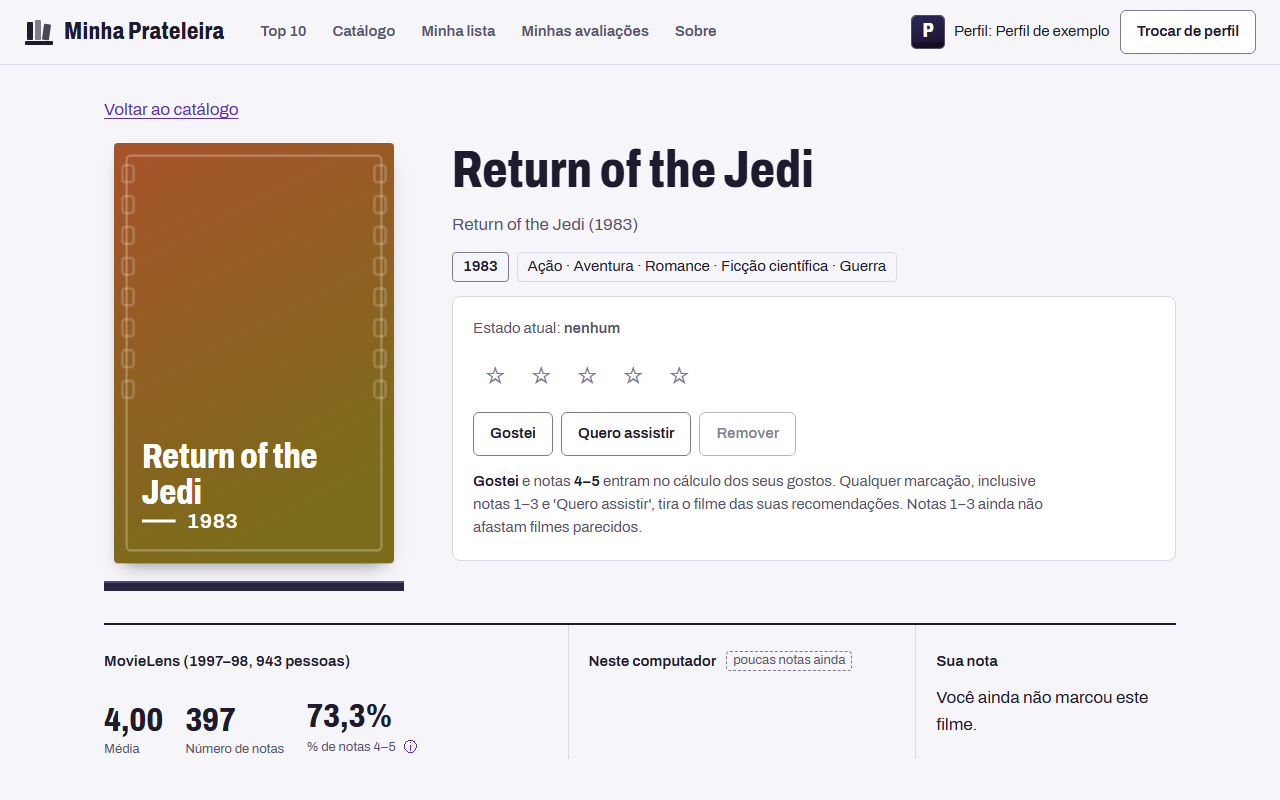
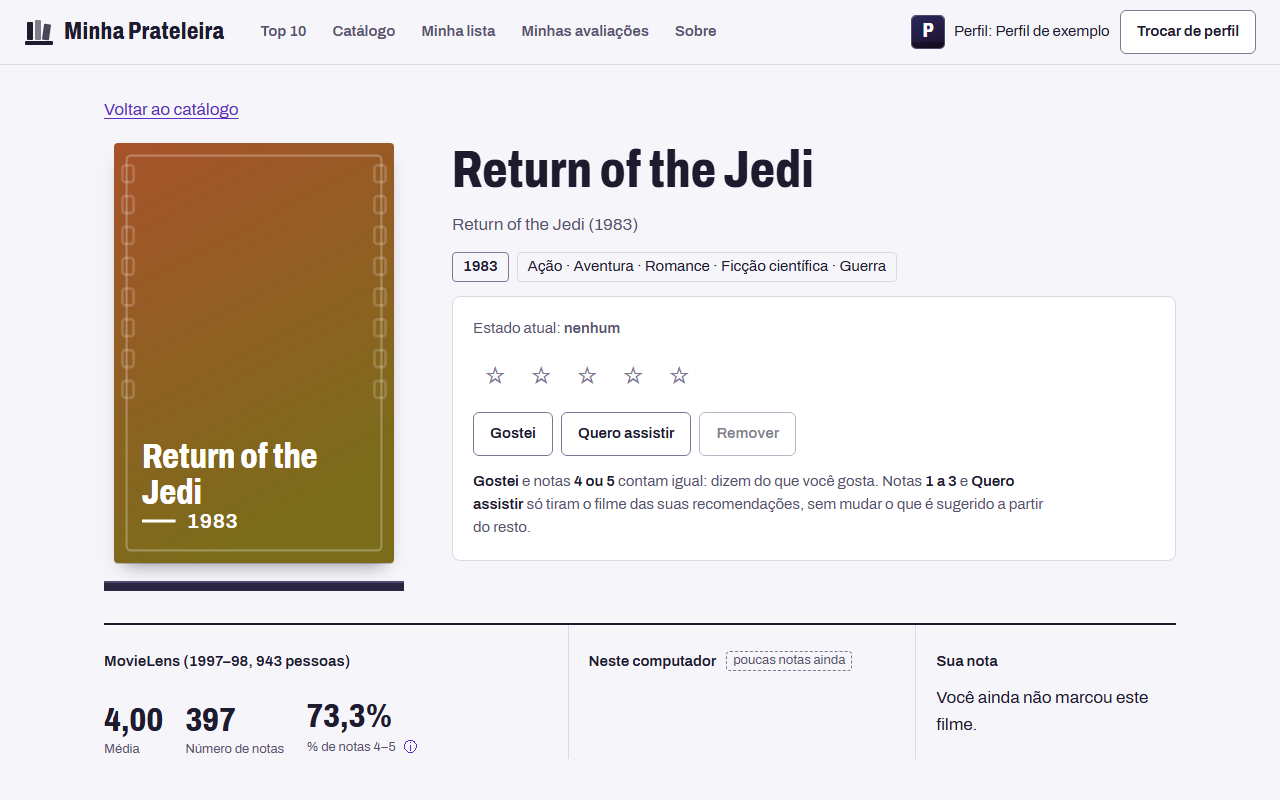
fix(web): texto do detalhe explica que Gostei e notas 4 ou 5 contam igual
Texto aprovado pelo usuário em 2026-11-20. Captura 04 regerada.

Changed region(s): [[0.375, 0.5938, 0.8125, 0.6875]]

diff --git a/app/web/src/componentes/ControleInteracao.jsx b/app/web/src/componentes/ControleInteracao.jsx
@@ -174,8 +174,8 @@ export default function ControleInteracao({ perfilId, filme, estado, aoMudar }) 
         <button type="button" disabled={!estado} onClick={() => aplicar(null)}>Remover</button>
       </div>
       <p className="texto-fixo">
-        <strong>Gostei</strong> e notas <strong>4–5</strong> entram no cálculo dos seus gostos. Qualquer marcação,
-        inclusive notas 1–3 e &apos;Quero assistir&apos;, tira o filme das suas recomendações. Notas 1–3 ainda não afastam filmes parecidos.
+        <strong>Gostei</strong> e notas <strong>4 ou 5</strong> contam igual: dizem do que você gosta. Notas <strong>1 a 3</strong> e{' '}
+        <strong>Quero assistir</strong> só tiram o filme das suas recomendações, sem mudar o que é sugerido a partir do resto.
       </p>
     </div>
   );

diff --git a/app/web/src/componentes/ControleInteracao.test.jsx b/app/web/src/componentes/ControleInteracao.test.jsx
@@ -53,7 +53,7 @@ describe('ControleInteracao', () => {
   test('texto fixo literal', () => {
     montar();
     expect(document.body.textContent).toContain(
-      "Gostei e notas 4–5 entram no cálculo dos seus gostos. Qualquer marcação, inclusive notas 1–3 e 'Quero assistir', tira o filme das suas recomendações. Notas 1–3 ainda não afastam filmes parecidos.",
+      'Gostei e notas 4 ou 5 contam igual: dizem do que você gosta. Notas 1 a 3 e Quero assistir só tiram o filme das suas recomendações, sem mudar o que é sugerido a partir do resto.',
     );
   });
 

diff --git a/docs/superpowers/specs/2026-11-16-aplicacao-etapa1-design.md b/docs/superpowers/specs/2026-11-16-aplicacao-etapa1-design.md
@@ -415,7 +415,7 @@ Recomendacoes = { perfilId, geradoEm,
 | `TelaPerfis` | "Quem está usando?", com o aviso fixo "Os perfis ficam só neste computador e não têm senha." Campo **"Apelido"**. Botão **"Ver um exemplo"** (`POST /perfis/exemplo`). Renomear e excluir com confirmação ("Apagar remove as avaliações deste perfil"). |
 | `Onboarding` | Começa com "Marque filmes que você já viu e gostou. Cada um já muda as suas recomendações; sugerimos pelo menos 3, para que a lista não dependa de um filme só. O catálogo vai até 1998." Grade curada com o `ControleRapido` (abaixo), busca e filtro de gênero, e "Não reconheço nenhum: mostrar outros", que avança o cursor. O botão principal "Ver minhas recomendações" fica em destaque a partir de 3 filmes curtidos com vetor (`curtidosComVetor`). Com menos, aparece "N marcados · sugerimos pelo menos 3", e o botão continua disponível. Com 0, ele diz "Pular por enquanto". O 3 é só uma orientação: nenhum limiar de qualidade foi medido. |
 | `ControleRapido` (cartão) | Um botão "Gostei" (`aria-pressed`) e um menu "…" com "Quero assistir" e "Dar nota". Isso reduz as paradas de Tab. |
-| `ControleInteracao` (detalhe) | As estrelas 1–5 (`radiogroup`, rótulo "N de 5 estrelas"; clicar na estrela atual remove a nota), "Gostei", "Quero assistir" e "Remover". Mostra o estado único atual e um texto fixo: "**Gostei** e notas **4–5** entram no cálculo dos seus gostos. Qualquer marcação, inclusive notas 1–3 e 'Quero assistir', tira o filme das suas recomendações. Notas 1–3 ainda não afastam filmes parecidos." |
+| `ControleInteracao` (detalhe) | As estrelas 1–5 (`radiogroup`, rótulo "N de 5 estrelas"; clicar na estrela atual remove a nota), "Gostei", "Quero assistir" e "Remover". Mostra o estado único atual e um texto fixo: "**Gostei** e notas **4 ou 5** contam igual: dizem do que você gosta. Notas **1 a 3** e **Quero assistir** só tiram o filme das suas recomendações, sem mudar o que é sugerido a partir do resto." (texto aprovado pelo usuário em 2026-11-20, no lugar do anterior) |
 | `AvisoAcao` (`aria-live`, uma única região, compartilhada com o anúncio do `Top10`) | Depois de todo PUT ou DELETE: "Salvo" e, quando havia estado anterior diferente, "Sua nota 2 foi substituída por Gostei · **Desfazer**". O aviso dura 6 s e não é recriado quando o Top 10 se atualiza; "Desfazer" reaplica o `anterior`. Acrescenta uma frase escolhida por `efeitos`, `tipo`, `nota` e `temVetor`: |
 
 **Frases do `AvisoAcao`:**
